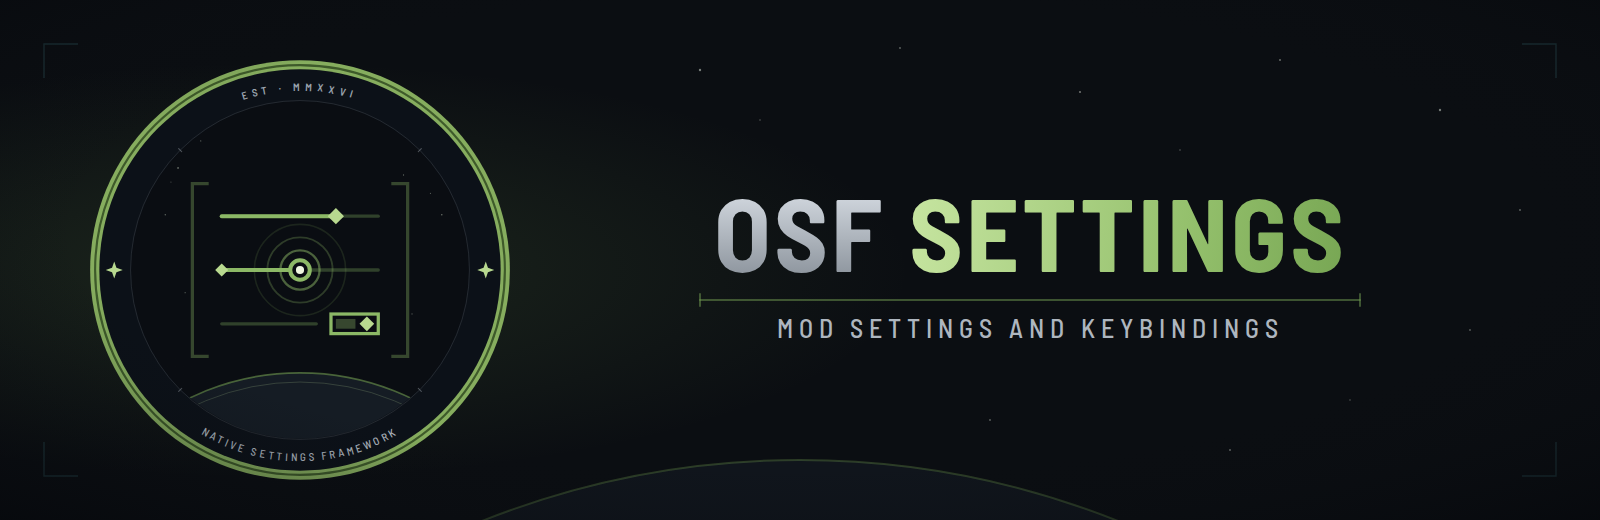
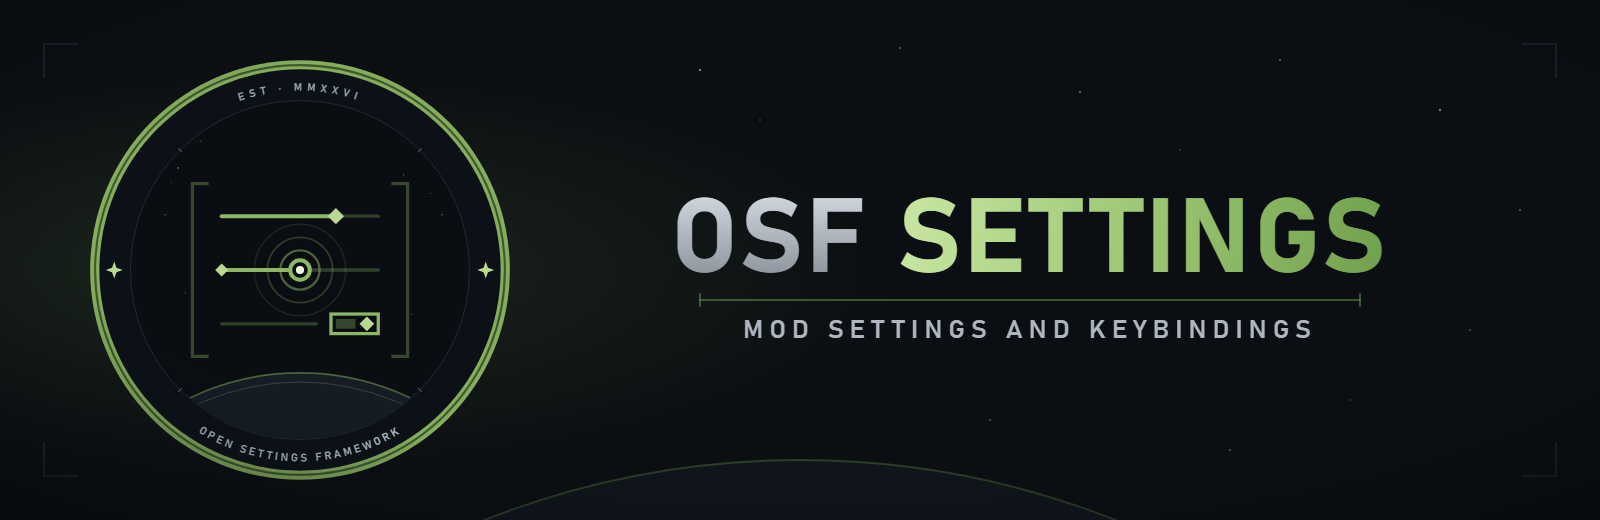
Branding update

diff --git a/packaging/branding/README.md b/packaging/branding/README.md
@@ -30,8 +30,6 @@ Sage matches the green launch-card rings already drawn in the in-game menu.
 
 ## Fonts
 
-Sources name Bahnschrift first (same as the siblings). The committed PNGs were rendered off-Windows
-with Barlow Semi Condensed / JetBrains Mono standing in for Bahnschrift / Consolas, so letterforms
-differ slightly from OSF UI's and OSF Animation's PNGs. For exact parity, re-rasterize on Windows the
-way `../section-headers/README.md` in OSF Animation describes (open the SVG in a browser, capture at
-native size with a transparent background).
+Sources name Bahnschrift first (same as the siblings). The header and both patch PNGs were
+re-rasterized on Windows in Bahnschrift (headless Edge, native size, transparent background). The
+emblem PNG was rendered off-Windows with Barlow Semi Condensed standing in, but it has no text.
